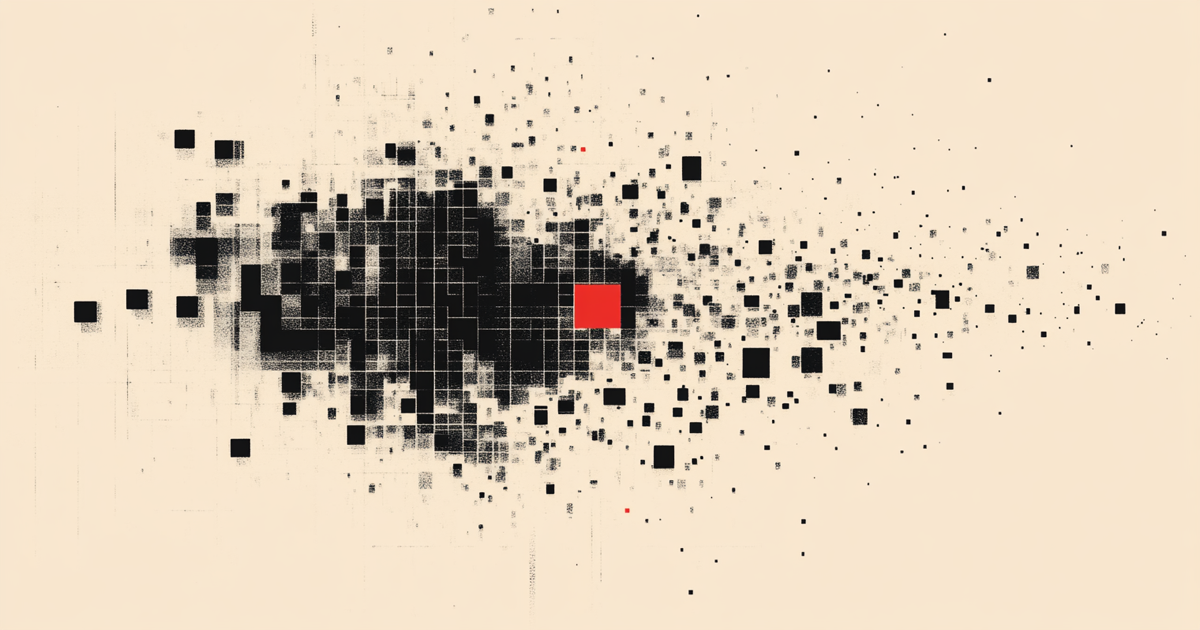
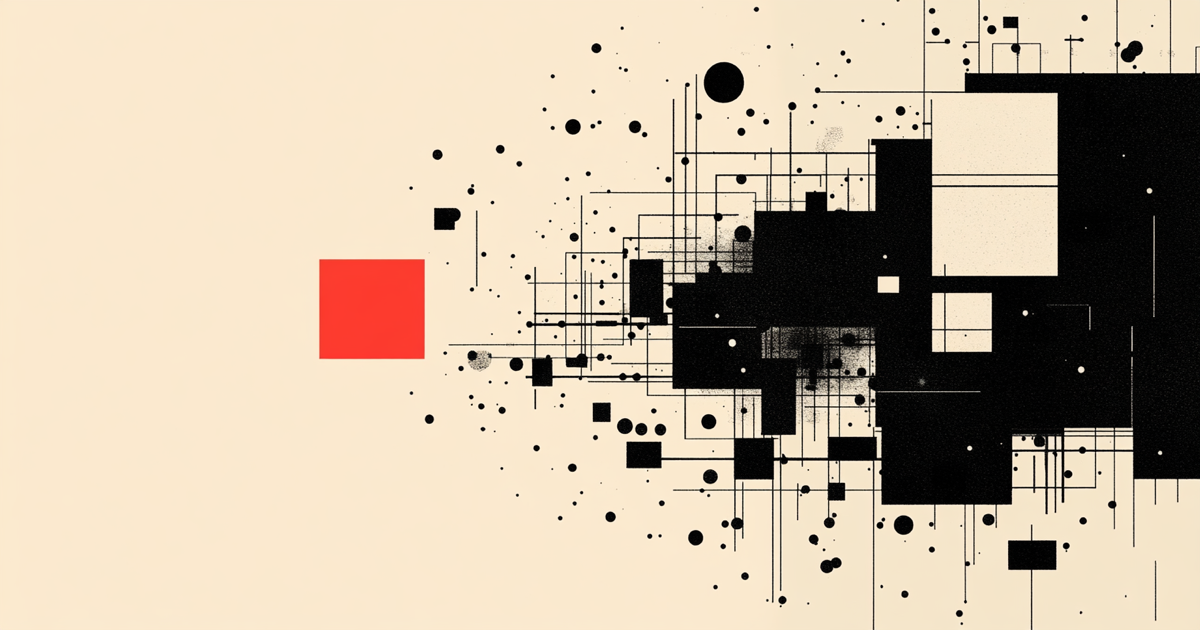
feat(brand): bannière Classifications v2 (blueprint, flipée H) en V2 strict
Remplace la bannière Classifications v1 (subdivision récursive, carré
rouge centré) par v2 (subdivision blueprint avec lignes verticales,
carré rouge à droite) — flipée horizontalement pour que le pattern
visuel respecte le V2 strict cohérent avec TARES.

Pattern V2 strict :
- Position right -2% bottom -4%, 72% × 85%
- Mask diagonal 135° (haut-gauche fadé → bas-droit révélé)
- Opacity 0.45
- Le carré rouge n'apparaît PAS dans le hero (côté gauche de l'image
  flipée, fadé par le mask) — visible uniquement sur l'OG meta partagée
- Ce qui est visible dans le hero : la zone dense de blocs + lignes
  verticales (effet "blueprint architectural")

Cohérence inter-pages : TARES et Classifications utilisent maintenant
exactement le même CSS .ds-hero-banner-bg, même position, même mask,
même opacity. Seule l'URL du background-image change.

Archive :
- v1 (dcaf56bb) conservée dans assets/branding/ avec note "éphémère"
- v2 (bd610bfd) ajoutée comme version live actuelle

diff --git a/.design-preview/mockup-hero-classifications-mirror.html b/.design-preview/mockup-hero-classifications-mirror.html
@@ -1,0 +1,201 @@
+<!doctype html>
+<html lang="fr">
+<head>
+<meta charset="utf-8" />
+<meta name="viewport" content="width=device-width, initial-scale=1" />
+<title>Maquette — Hero Classifications (mirror), 3 traitements</title>
+<style>
+  :root{
+    --bg:#FBFBF8;--bg-soft:#F4F4F0;--bg-card:#FFFFFF;
+    --ink:#0A0A0C;--ink-soft:#4A4D55;--ink-mute:#6B6E76;
+    --line:rgba(10,10,12,.08);--line-strong:rgba(10,10,12,.14);
+    --accent:#DC1F2D;--green:#15803D;
+    --font-sans:Geist,-apple-system,BlinkMacSystemFont,"Helvetica Neue",system-ui,sans-serif;
+    --font-mono:"Geist Mono",ui-monospace,SFMono-Regular,Menlo,Monaco,monospace;
+  }
+  *{box-sizing:border-box;margin:0;padding:0}
+  html,body{background:var(--bg);color:var(--ink);font-family:var(--font-sans);font-size:16px;line-height:1.5;-webkit-font-smoothing:antialiased}
+  a{color:inherit;text-decoration:none}
+
+  .mockup-flag{position:fixed;top:12px;right:12px;z-index:200;background:var(--ink);color:var(--bg);font-family:var(--font-mono);font-size:10px;padding:6px 10px;border-radius:4px;letter-spacing:.08em;text-transform:uppercase}
+
+  .nav{position:sticky;top:0;z-index:50;display:flex;align-items:center;justify-content:space-between;padding:12px 36px;background:rgba(251,251,248,.85);backdrop-filter:blur(16px);font-family:var(--font-mono);font-size:11px;color:var(--ink-mute);border-bottom:1px solid var(--line)}
+  .nav-brand{display:flex;align-items:center;gap:10px;font-family:var(--font-sans);font-weight:700;font-size:14px;letter-spacing:-.02em;color:var(--ink)}
+  .nav-mark{width:20px;height:20px}
+  .nav-mark img{width:100%;height:100%;object-fit:contain}
+
+  .container{max-width:1320px;margin:0 auto;padding:0 36px}
+
+  .variant-label{font-family:var(--font-mono);font-size:11px;letter-spacing:.1em;text-transform:uppercase;color:var(--accent);padding:48px 36px 8px;max-width:1320px;margin:0 auto;font-weight:600;border-top:1px dashed var(--line-strong)}
+  .variant-meta{font-family:var(--font-mono);font-size:11px;color:var(--ink-mute);padding:0 36px 16px;max-width:1320px;margin:0 auto;line-height:1.5}
+
+  /* Hero shared */
+  .hero{position:relative;padding:48px 0 64px;overflow:hidden}
+  .hero-grid{display:grid;grid-template-columns:1.15fr .85fr;gap:52px;align-items:start;position:relative;z-index:2}
+  .breadcrumb{font-family:var(--font-mono);font-size:11px;color:var(--ink-mute);margin-bottom:28px;position:relative;z-index:2}
+  .breadcrumb a{color:var(--ink-mute)}.breadcrumb .current{color:var(--ink)}.breadcrumb .sep{margin:0 8px;opacity:.4}
+  .eyebrow{font-family:var(--font-mono);font-size:11px;letter-spacing:.08em;text-transform:uppercase;color:var(--ink-mute);margin-bottom:24px;display:flex;align-items:center;gap:14px;flex-wrap:wrap}
+  .eyebrow .check{color:var(--green);display:inline-flex;align-items:center;gap:6px}
+  .eyebrow .check::before{content:'';width:6px;height:6px;background:var(--green);border-radius:50%}
+  .h1{font-size:clamp(48px,5.6vw,72px);font-weight:700;line-height:1;letter-spacing:-.04em;max-width:14ch;margin-bottom:24px}
+  .h1 .accent{color:var(--accent);border-bottom:3px solid var(--accent);padding-bottom:2px}
+  .lede{font-size:18px;color:var(--ink-soft);line-height:1.55;margin-bottom:28px;max-width:50ch}
+  .specs{display:grid;grid-template-columns:repeat(3,1fr);border-top:1px solid var(--line);border-bottom:1px solid var(--line);margin-bottom:24px}
+  .spec{padding:16px 14px 16px 0;border-right:1px solid var(--line)}
+  .spec:last-child{border-right:none}
+  .spec-label{font-family:var(--font-mono);font-size:9px;letter-spacing:.08em;text-transform:uppercase;color:var(--ink-mute);margin-bottom:5px}
+  .spec-value{font-family:var(--font-mono);font-size:13px;font-weight:500}
+  .cta{display:flex;gap:10px;margin-bottom:28px}
+  .btn{padding:14px 22px;border-radius:8px;font-family:var(--font-sans);font-weight:500;font-size:14px;display:inline-flex;align-items:center;gap:10px;cursor:pointer;border:1px solid transparent}
+  .btn-primary{background:var(--ink);color:var(--bg)}
+  .btn-secondary{background:var(--bg-card);color:var(--ink);border-color:var(--line-strong)}
+  .price{position:sticky;top:80px;background:rgba(255,255,255,.82);backdrop-filter:blur(10px);border:1px solid var(--line-strong);border-radius:14px;padding:24px 28px;align-self:start;min-width:240px}
+  .price-label{font-family:var(--font-mono);font-size:11px;letter-spacing:.08em;text-transform:uppercase;color:var(--ink-mute);margin-bottom:14px}
+  .price-amount{font-size:48px;font-weight:700;letter-spacing:-.02em;line-height:1}
+  .price-cur{font-size:18px;color:var(--ink-mute);margin-left:6px;font-weight:400}
+  .price-renew{font-size:13px;color:var(--ink-soft);margin-top:14px}
+
+  .bg{position:absolute;pointer-events:none;z-index:1;background-image:url('og-classifications-mirror-preview.png');background-repeat:no-repeat;background-size:cover}
+
+  /* M1 — V2 mirroré (le miroir exact de TARES, côté gauche) */
+  .hero.m1 .bg{
+    left:-2%;bottom:-4%;
+    width:72%;height:85%;
+    background-position:left center;
+    opacity:.45;
+    -webkit-mask-image:linear-gradient(225deg, transparent 0%, transparent 30%, rgba(0,0,0,.5) 55%, rgba(0,0,0,.95) 100%);
+            mask-image:linear-gradient(225deg, transparent 0%, transparent 30%, rgba(0,0,0,.5) 55%, rgba(0,0,0,.95) 100%);
+  }
+
+  /* M2 — V2 droite cohérent TARES, image flipée (carré rouge invisible mais pattern unifié) */
+  .hero.m2 .bg{
+    right:-2%;bottom:-4%;
+    width:72%;height:85%;
+    background-position:right center;
+    opacity:.45;
+    -webkit-mask-image:linear-gradient(135deg, transparent 0%, transparent 30%, rgba(0,0,0,.5) 55%, rgba(0,0,0,.95) 100%);
+            mask-image:linear-gradient(135deg, transparent 0%, transparent 30%, rgba(0,0,0,.5) 55%, rgba(0,0,0,.95) 100%);
+  }
+
+  /* M3 — Pleine largeur basse, mask radial → carré rouge centré-gauche */
+  .hero.m3{padding-bottom:100px}
+  .hero.m3 .bg{
+    left:0;right:0;bottom:-3%;
+    width:100%;height:78%;
+    background-size:contain;
+    background-position:center 90%;
+    opacity:.5;
+    -webkit-mask-image:radial-gradient(ellipse at 50% 90%, rgba(0,0,0,.95) 0%, rgba(0,0,0,.7) 35%, rgba(0,0,0,.25) 70%, transparent 100%);
+            mask-image:radial-gradient(ellipse at 50% 90%, rgba(0,0,0,.95) 0%, rgba(0,0,0,.7) 35%, rgba(0,0,0,.25) 70%, transparent 100%);
+  }
+
+  footer{padding:48px 36px;font-family:var(--font-mono);font-size:11px;color:var(--ink-mute);text-align:center;border-top:1px solid var(--line)}
+</style>
+</head>
+<body>
+
+<div class="mockup-flag">Maquette · Classifications mirror — 3 traitements</div>
+
+<nav class="nav">
+  <div class="nav-brand"><span class="nav-mark"><img src="../web/public/logo.png" alt=""></span>openswissdata</div>
+</nav>
+
+<!-- ============= M1 — V2 mirroré gauche ============= -->
+<div class="variant-label">M1 — V2 mirroré (carré rouge visible côté gauche du hero)</div>
+<div class="variant-meta">Bannière flipée + position left -2%, bottom -4%, mask diagonal 225° (haut-droit fadé → bas-gauche révélé). Le carré rouge devient visible sous le texte/lede dans la moitié gauche-bas du hero. Risque : peut conflicter avec la lisibilité du texte au hover/scroll.</div>
+<section class="hero m1">
+  <div class="bg"></div>
+  <div class="container">
+    <nav class="breadcrumb"><a href="#">accueil</a><span class="sep">·</span><a href="#">datasets</a><span class="sep">·</span><span class="current">classifications</span></nav>
+    <div class="hero-grid">
+      <div>
+        <div class="eyebrow"><span>Classifications · NOGA · NACE · ISIC</span><span class="check">Sources publiques · LDA art. 5</span></div>
+        <h1 class="h1">Classifications économiques, <span class="accent">cross-walkées.</span></h1>
+        <p class="lede">NOGA 2025, NACE Rév. 2.1, ISIC Rév. 5. Hiérarchies complètes, désignations en 4 langues (DE/FR/IT/EN), tables de correspondance entre standards. JSON, Parquet, SQL.</p>
+        <div class="specs">
+          <div class="spec"><div class="spec-label">Standards</div><div class="spec-value">NOGA · NACE · ISIC</div></div>
+          <div class="spec"><div class="spec-label">Langues</div><div class="spec-value">DE · FR · IT · EN</div></div>
+          <div class="spec"><div class="spec-label">Cross-walks</div><div class="spec-value">3 directions</div></div>
+        </div>
+        <div class="cta">
+          <button class="btn btn-primary">Acheter — 399 CHF →</button>
+          <button class="btn btn-secondary">Échantillon CSV</button>
+        </div>
+      </div>
+      <div class="price">
+        <div class="price-label">One-shot</div>
+        <div><span class="price-amount">399</span><span class="price-cur">CHF</span></div>
+        <div class="price-renew">+160 CHF/an mises à jour (optionnel) · 360 jours d'updates inclus</div>
+      </div>
+    </div>
+  </div>
+</section>
+
+<!-- ============= M2 — V2 strict (cohérent TARES) ============= -->
+<div class="variant-label">M2 — V2 strict cohérent avec TARES (carré rouge invisible, blocs visibles côté droit)</div>
+<div class="variant-meta">Position right-bottom + mask 135° identique à TARES. L'image étant flipée (carré rouge à gauche), c'est le côté blocs+lignes verticales qui apparaît dans la zone visible. Le carré rouge n'est PAS visible dans le hero — il reste visible uniquement sur la meta og:image partagée socialement. Avantage : pattern parfaitement unifié entre toutes les pages dataset.</div>
+<section class="hero m2">
+  <div class="bg"></div>
+  <div class="container">
+    <nav class="breadcrumb"><a href="#">accueil</a><span class="sep">·</span><a href="#">datasets</a><span class="sep">·</span><span class="current">classifications</span></nav>
+    <div class="hero-grid">
+      <div>
+        <div class="eyebrow"><span>Classifications · NOGA · NACE · ISIC</span><span class="check">Sources publiques · LDA art. 5</span></div>
+        <h1 class="h1">Classifications économiques, <span class="accent">cross-walkées.</span></h1>
+        <p class="lede">NOGA 2025, NACE Rév. 2.1, ISIC Rév. 5. Hiérarchies complètes, désignations en 4 langues (DE/FR/IT/EN), tables de correspondance entre standards. JSON, Parquet, SQL.</p>
+        <div class="specs">
+          <div class="spec"><div class="spec-label">Standards</div><div class="spec-value">NOGA · NACE · ISIC</div></div>
+          <div class="spec"><div class="spec-label">Langues</div><div class="spec-value">DE · FR · IT · EN</div></div>
+          <div class="spec"><div class="spec-label">Cross-walks</div><div class="spec-value">3 directions</div></div>
+        </div>
+        <div class="cta">
+          <button class="btn btn-primary">Acheter — 399 CHF →</button>
+          <button class="btn btn-secondary">Échantillon CSV</button>
+        </div>
+      </div>
+      <div class="price">
+        <div class="price-label">One-shot</div>
+        <div><span class="price-amount">399</span><span class="price-cur">CHF</span></div>
+        <div class="price-renew">+160 CHF/an mises à jour (optionnel) · 360 jours d'updates inclus</div>
+      </div>
+    </div>
+  </div>
+</section>
+
+<!-- ============= M3 — Pleine largeur basse ============= -->
+<div class="variant-label">M3 — Pleine largeur basse · mask radial → carré rouge dans la moitié gauche-bas</div>
+<div class="variant-meta">Bannière étalée pleine largeur du hero, mask radial elliptique centré sur 50% / 90% (révèle le bas-centre, fade les bords). Le carré rouge se trouve dans la moitié gauche, visible juste sous les CTA. Plus pictural, exploite mieux la composition flipée que M1 ou M2.</div>
+<section class="hero m3">
+  <div class="bg"></div>
+  <div class="container">
+    <nav class="breadcrumb"><a href="#">accueil</a><span class="sep">·</span><a href="#">datasets</a><span class="sep">·</span><span class="current">classifications</span></nav>
+    <div class="hero-grid">
+      <div>
+        <div class="eyebrow"><span>Classifications · NOGA · NACE · ISIC</span><span class="check">Sources publiques · LDA art. 5</span></div>
+        <h1 class="h1">Classifications économiques, <span class="accent">cross-walkées.</span></h1>
+        <p class="lede">NOGA 2025, NACE Rév. 2.1, ISIC Rév. 5. Hiérarchies complètes, désignations en 4 langues (DE/FR/IT/EN), tables de correspondance entre standards. JSON, Parquet, SQL.</p>
+        <div class="specs">
+          <div class="spec"><div class="spec-label">Standards</div><div class="spec-value">NOGA · NACE · ISIC</div></div>
+          <div class="spec"><div class="spec-label">Langues</div><div class="spec-value">DE · FR · IT · EN</div></div>
+          <div class="spec"><div class="spec-label">Cross-walks</div><div class="spec-value">3 directions</div></div>
+        </div>
+        <div class="cta">
+          <button class="btn btn-primary">Acheter — 399 CHF →</button>
+          <button class="btn btn-secondary">Échantillon CSV</button>
+        </div>
+      </div>
+      <div class="price">
+        <div class="price-label">One-shot</div>
+        <div><span class="price-amount">399</span><span class="price-cur">CHF</span></div>
+        <div class="price-renew">+160 CHF/an mises à jour (optionnel) · 360 jours d'updates inclus</div>
+      </div>
+    </div>
+  </div>
+</section>
+
+<footer>
+  Maquette comparative · 3 traitements · même bannière flipée (subdivision récursive, carré rouge à gauche)
+</footer>
+
+</body>
+</html>

diff --git a/assets/branding/README.md b/assets/branding/README.md
@@ -13,7 +13,8 @@ Les versions traitées (croppées, redimensionnées, optimisées) sont sous `web
 |---|---|---|
 | `u9837718348_minimal_logo_mark_swiss_cross_composed_of_small_g_84ba9caa-f519-4c4d-aff1-266e0f08c2b9_3.png` | Logo officiel openswissdata (croix suisse en pixels) — choisi 2026-05-06 | `/logo.png`, `/favicon.*`, `/icon-*.png`, `/apple-touch-icon.png` |
 | `u9837718348_minimal_banner_composition_horizontal_field_of_sm_7ee0a106-ecea-462d-bd46-902862929b1d_1.png` | Bannière TARES (pixels qui convergent vers carré rouge) — validée 2026-05-06 | `/og-tares.png`, fond du hero `/datasets/tares` |
-| `u9837718348_un_carr_qui_se_divise_en_4_plus_petits_qui_se_div_dcaf56bb-0012-42d7-b82c-e9139dfb0e40_0.png` | Bannière Classifications (subdivision récursive) — validée 2026-05-06 | `/og-classifications.png`, fond du hero `/datasets/classifications` |
+| `u9837718348_un_carr_qui_se_divise_en_4_plus_petits_qui_se_div_dcaf56bb-0012-42d7-b82c-e9139dfb0e40_0.png` | Bannière Classifications v1 (subdivision récursive, carré rouge centre-droit) — éphémère, remplacée le jour même | — |
+| `u9837718348_un_carr_qui_se_divise_en_4_plus_petits_qui_se_div_bd610bfd-e126-45b4-9a04-519f608defe5_2.png` | Bannière Classifications v2 (subdivision blueprint, carré rouge à droite) — validée 2026-05-06, version live **flipée horizontalement** | `/og-classifications.png` (flippée + redimensionnée 1200×630), fond du hero `/datasets/classifications` |
 
 ## Style guide MJ
 